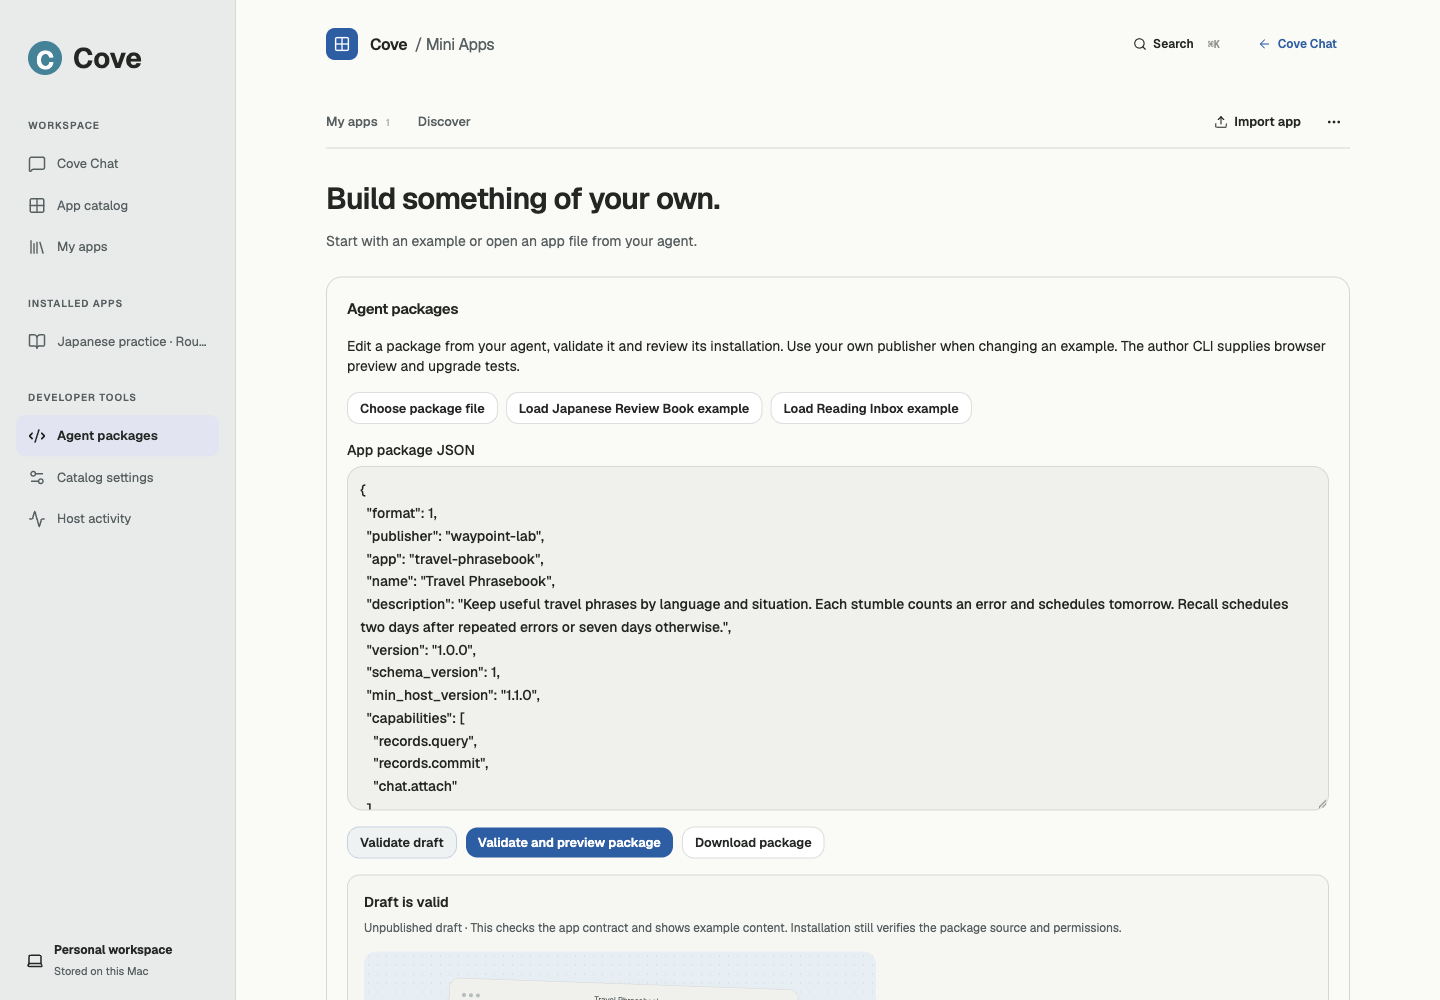
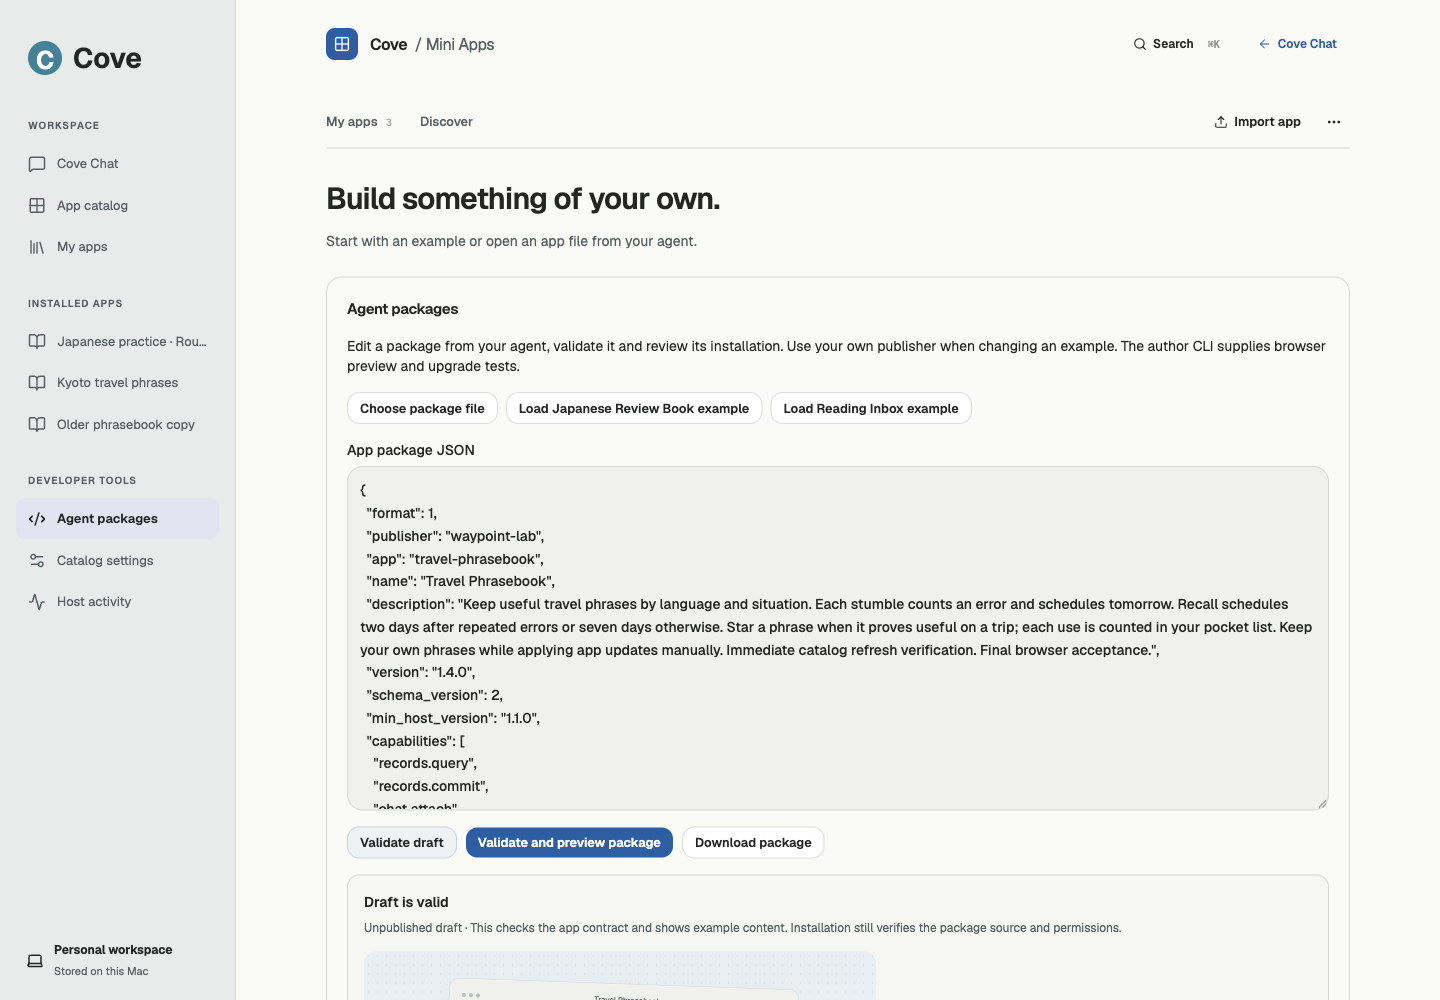
Attach final lifecycle, Japanese study and compatibility evidence

diff --git a/docs/mini-app-acceptance.md b/docs/mini-app-acceptance.md
@@ -37,10 +37,11 @@ reading and writing, with cloud access off.
 | --- | --- |
 | `make check` | Passed: repository conventions, formatting, Go vet and TypeScript |
 | Full Go `-race` suite | Passed |
-| Web unit and interaction tests | 832 passed across 126 files; no unhandled errors |
+| Web unit and interaction tests | 867 passed across 127 files; no unhandled errors |
 | API contract tests | 138 passed |
 | Script tests | 54 passed, 3 skipped |
 | Apple Silicon package and Swift release build | Passed; local ad-hoc signing |
+| Swift XCTest on macOS CI | Passed; local execution still requires full Xcode |
 | Mini App browser acceptance | Passed: market, permissions, instances, upgrades, study, authoring and scrolling |
 | App conversation and history acceptance | Passed: discovery, proposals, confirmed writes and Back/Stay/Leave/Forward |
 | Existing Chat browser acceptance | Passed: comparison, context, retry/stop, PDF, history, export, Provider lifecycle, responsive layout and accessibility |
@@ -90,13 +91,14 @@ provenance, grants, task release binding, native target identity, deterministic
 migrations and dates, proposal parsing, practice selection, draft protection,
 history traversal, and accepted Debate receipts. Confirmations now render above
 App and study dialogs and restore focus to their opener. App receipt delivery
-retains eight sends with 7.1 seconds of backoff; Debate keeps its existing policy.
+retains eight sends with 7.1 seconds of backoff and an independent two-second
+deadline for each settlement; Debate keeps its existing policy.
 Study writes keep their dialog open while pending. Explicit new-copy intent and
 catalog Installed/Open actions retain the selected version and authority.
 
-The final follow-up runtime is commit `cc206e8`, with browser test helper commit
-`782e879`. Its immutable production Local Service SHA-256 is
[1 lines of base64/hex data omitted]
+The final follow-up runtime and browser tests are commit `9d5951b`. Its immutable
+production Local Service SHA-256 is
[1 lines of base64/hex data omitted]
 The follow-up adds no database migration beyond schema 32.
 
 A fresh independent Codex sub-agent received only the packaged public authoring
@@ -123,6 +125,17 @@ new digest without a waiting workaround. The confirmed 1.1 to 1.3 update retaine
 all record bytes and revisions, name, instance, permissions and signer. The
 separate older copy remained unchanged. The cache fix has API regressions for
 the immediate install, failed refresh backoff and personal-package provenance.
+Canceled refresh owners also release live waiters to re-evaluate the current
+cache, including a newer verified index fetched by another request.
+
+A final browser-authored 1.4 release was published as sequence 5 after warming
+the prior catalog. Its downloaded bytes matched the authored package exactly;
+signed update review was reached in 3.677 seconds. The 1.3 to 1.4 confirmation
+retained all record bytes, IDs and revisions. The app's own **Stumbled** outcome
+then previewed and saved one error and a next-day due date for exactly one phrase.
+The updated copy, that authored rule result, the older copy and all seven Japanese
+questions survived the final service restart. The earlier 1.0 to 1.1 check remains
+the additive-schema migration evidence.
 
 Japanese Review Book retained all three original questions after marking one
 learned. A clearly labeled compatible loopback fixture then returned two
@@ -145,7 +158,11 @@ seven questions and the updated phrasebook.
 New real-browser checks cover nested discard confirmations, guarded Activity
 navigation with a draft, pointer hit testing, focus containment/restoration,
 rapid fragment pushes, superseded history restoration, and per-entry Mini Apps
-scroll restoration with user-scroll cancellation. The same production
+scroll restoration with user-scroll cancellation. With the Navigation API
+disabled, the browser also passed coalesced and interleaved event ordering,
+forward-tail truncation, intermediate fragment traversal, and page reload with a
+new unsent draft. These checks preserve exact Apps entries and history length.
+The same production
 build also passed the original Chat browser suite with no runtime exceptions.
 The isolated test publisher trusts its own CA through an ignored overlay; the
 normal application build does not include that overlay or signing keys.
@@ -164,10 +181,11 @@ self-contained package-and-data transfer bundle is not implemented.
 
 Production CoveWeb hosting and official signing configuration were outside this
 local-market acceptance. Real HTTPS `--cloud` acceptance still requires dedicated
-test credentials. Physical Services
-and `NSOpenPanel` interaction were not run in this pass. Full XCTest requires
-Xcode rather than this machine's Command Line Tools; the Swift release build
-and native acceptance harness did pass. Commands and prerequisites are in
+test credentials. Physical Services and `NSOpenPanel` interaction were not run
+in this pass. Full XCTest passed on macOS CI, including the Launcher test and
+package acceptance steps in [run 46125040972](https://github.com/tokenfunplus/cove/actions/runs/46125040972).
+Local XCTest still requires Xcode rather than this machine's Command Line Tools;
+the local Swift release build and native acceptance harness passed. Commands and prerequisites are in
 [development.md](development.md#mini-app-native-acceptance-on-a-mac).
 
 The report's additional product proposals, including personal author signatures,
@@ -227,6 +245,8 @@ is retained in the local acceptance report.
 ![Explicit new-copy review](images/mini-apps/round5-new-copy.png)
 
 ![Immediate signed update beyond the cached catalog](images/mini-apps/round5-immediate-update.png)
+
+![Independent author rule preview](images/mini-apps/round5-authored-rule.png)
 
 ### Japanese study and recovery controls
 
